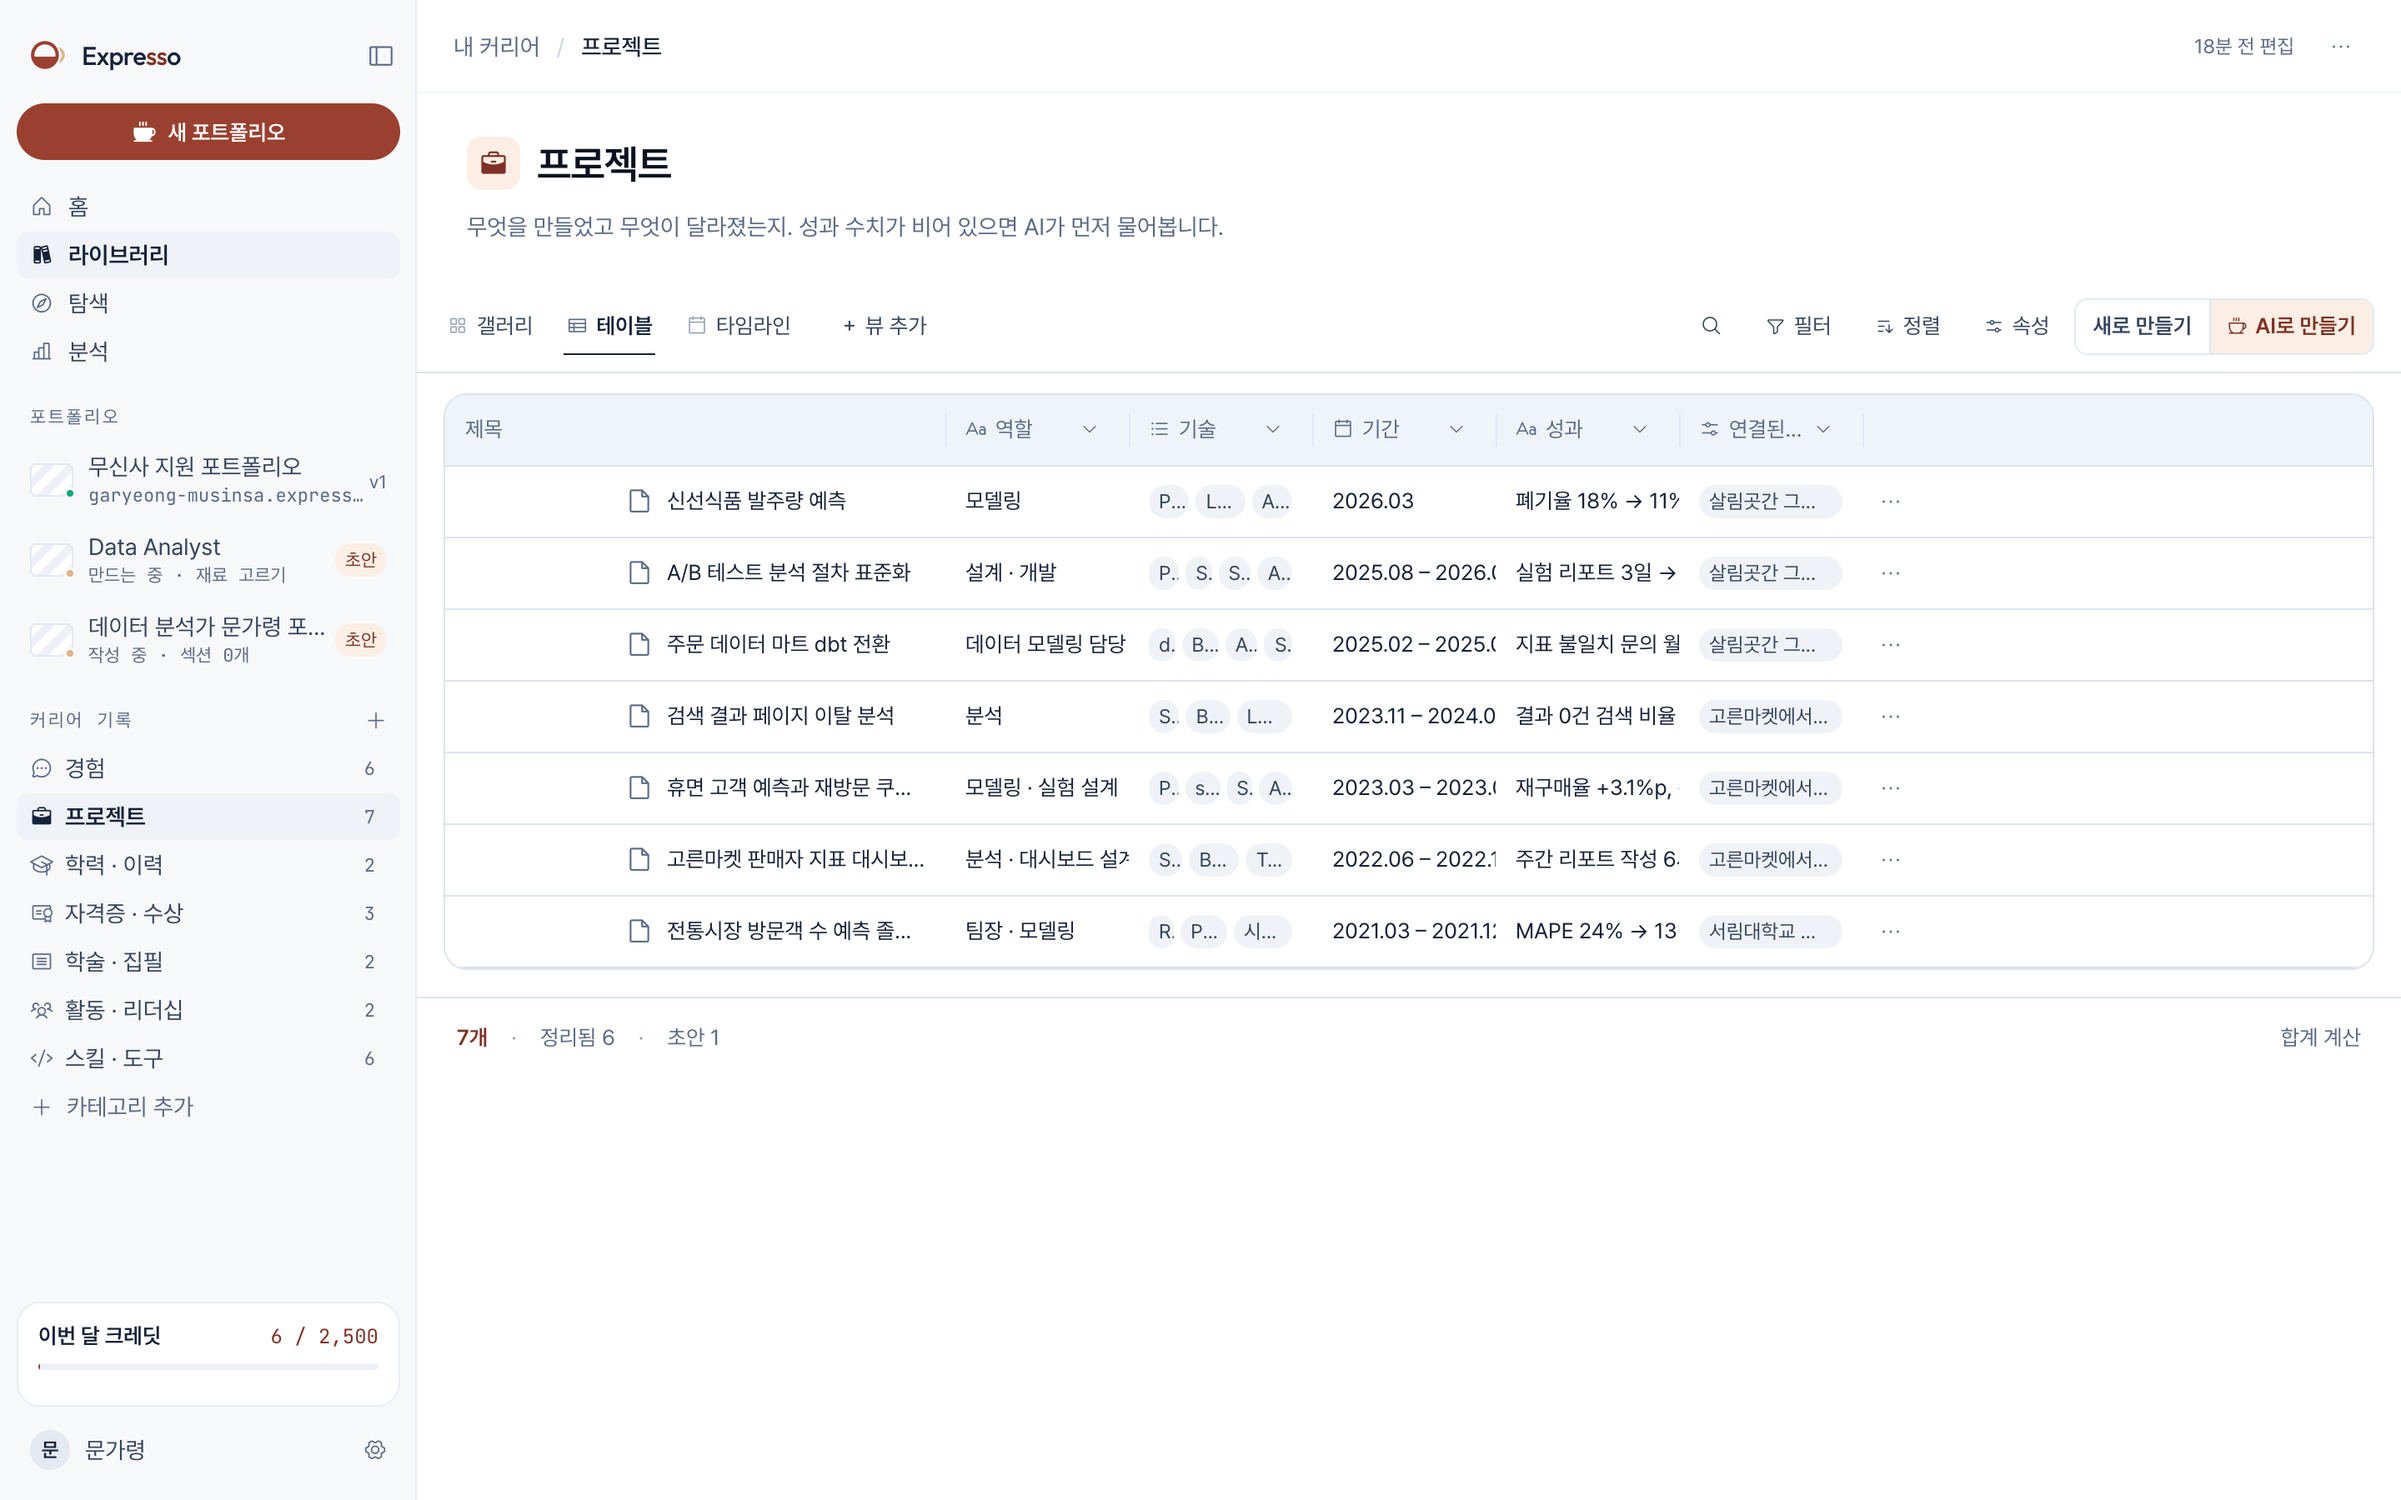
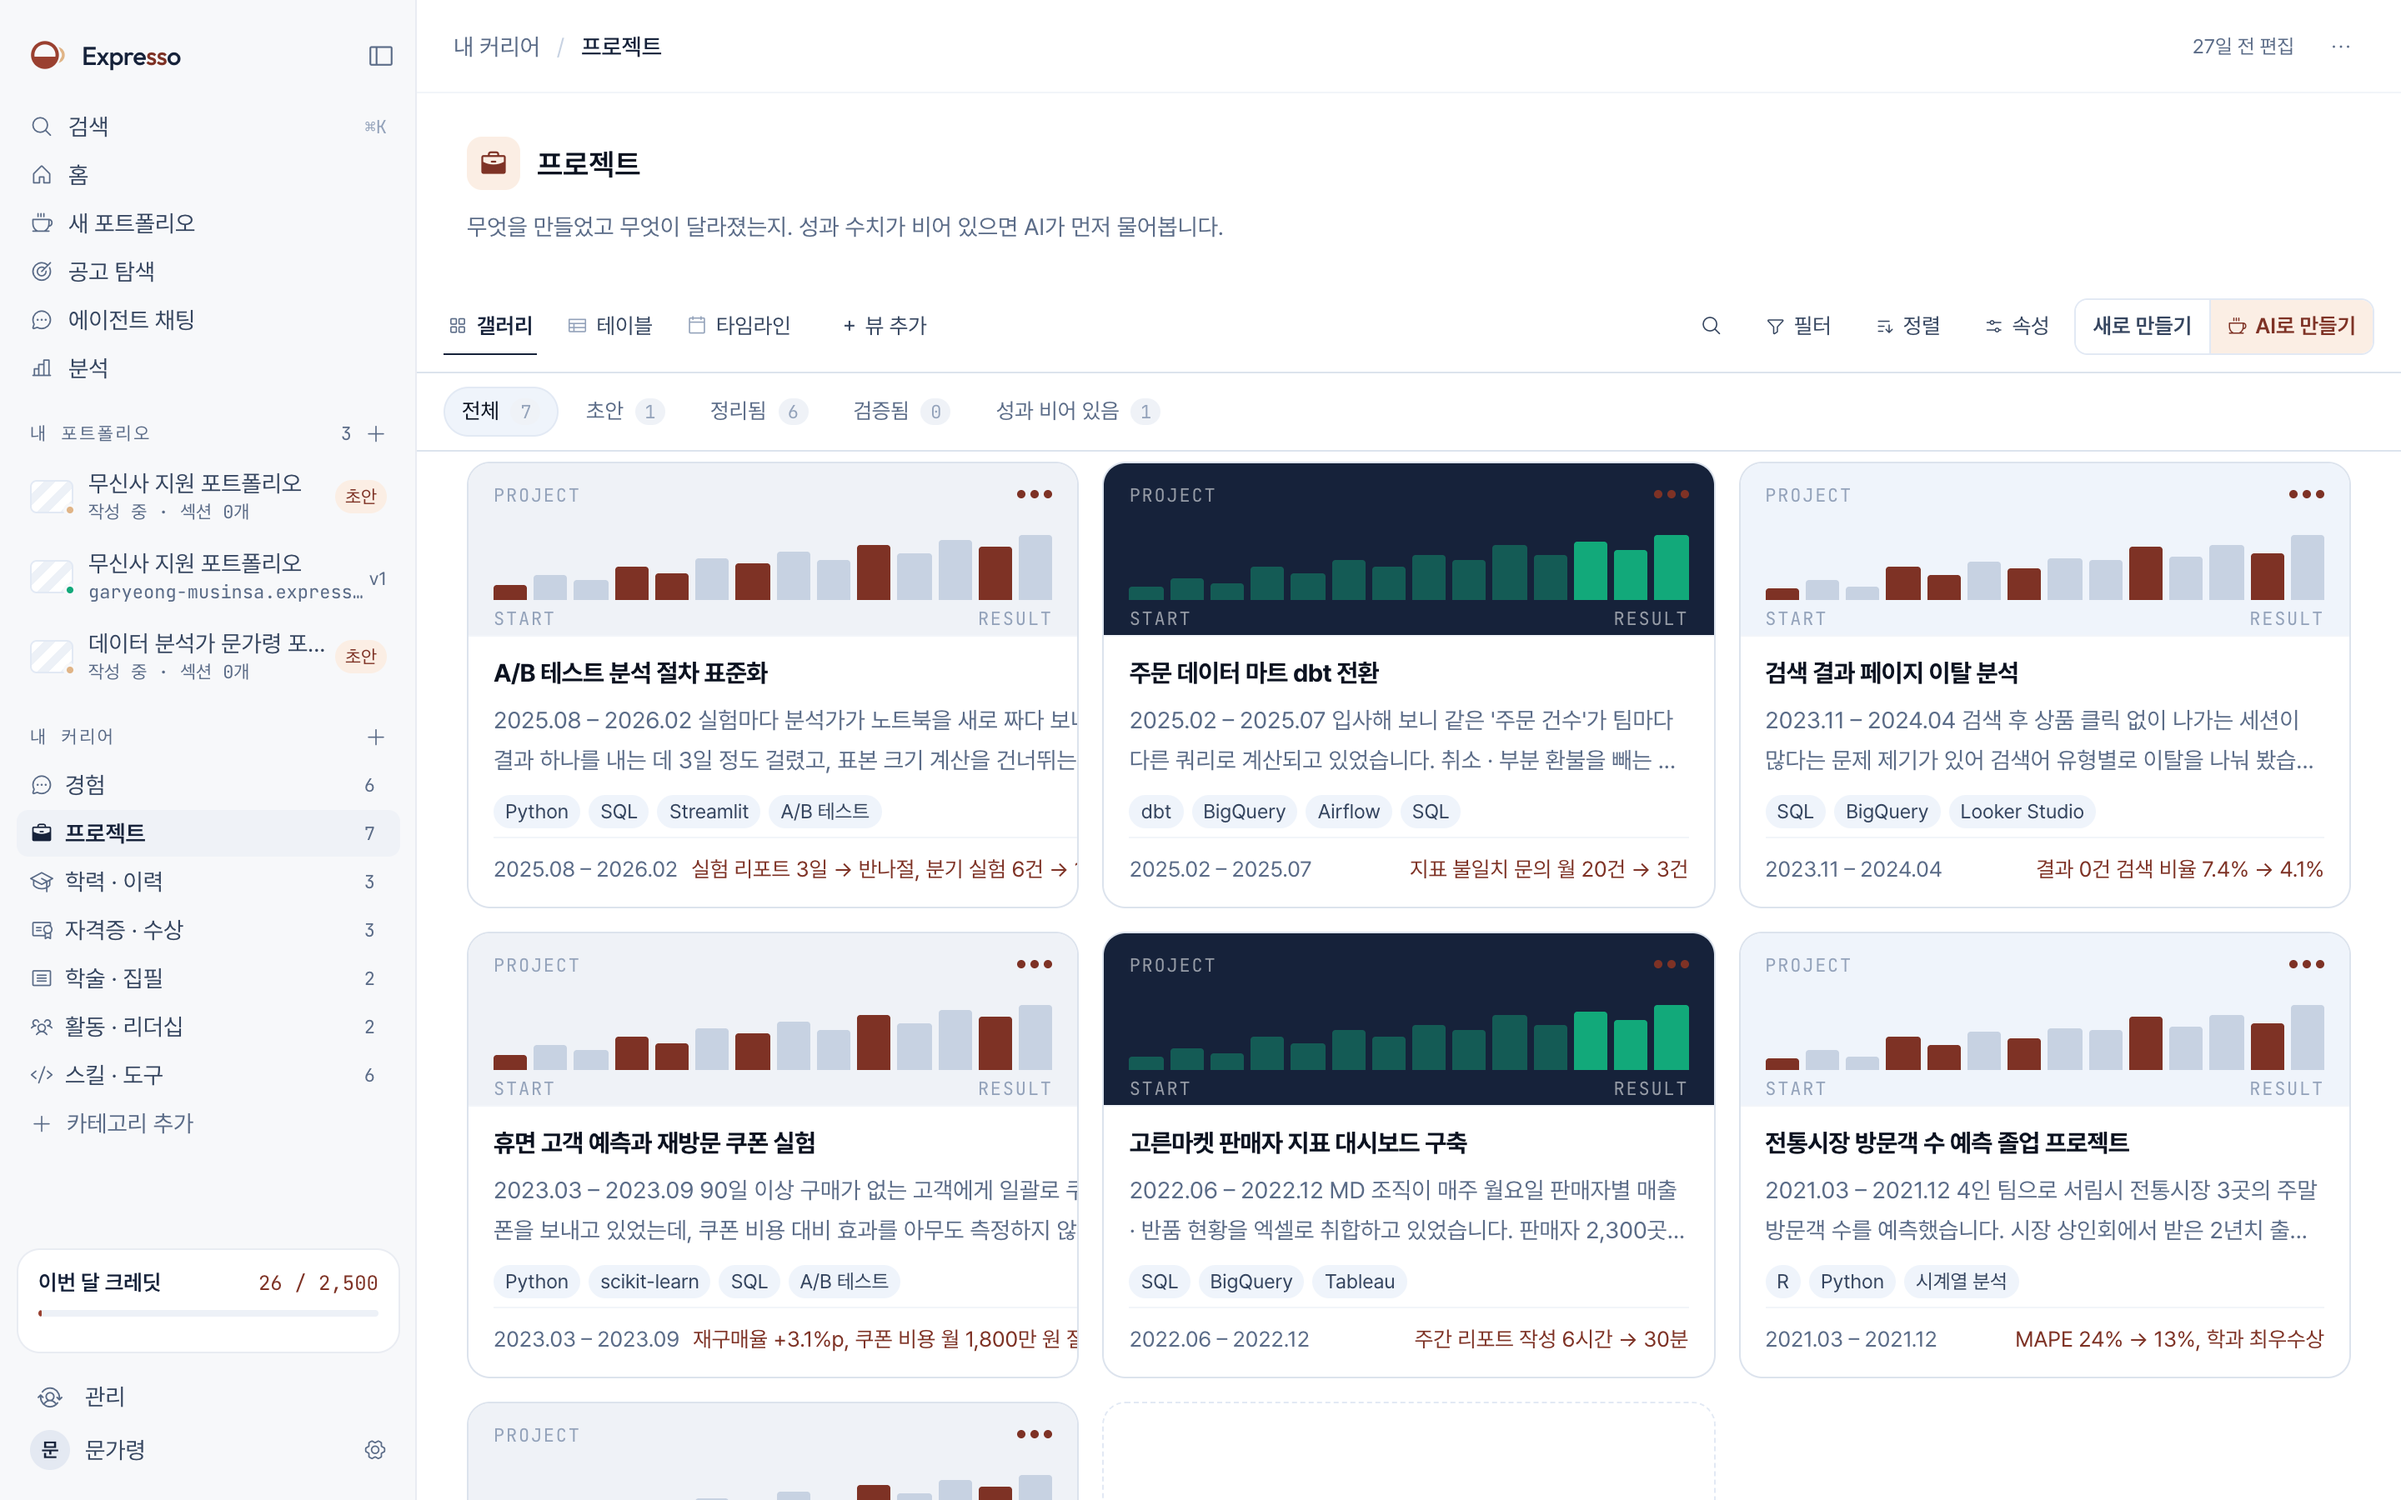
docs: 커리어 기록 장 화면을 경험 · 프로젝트 · 학력 · 이력 세 보기로 교체
- 경험(테이블) · 프로젝트(갤러리) · 학력 · 이력(타임라인) 실제 화면을 로컬 1.0 데모 계정에서 1440×900 · 2배로 촬영
- 촬영 전 데모 데이터 정리: 중복 경험 1건 삭제, 경험 3건 제목 · 기간 정리, 학력 기록 추가와 졸업 프로젝트 · 학부연구생 연결
- 오른쪽 보기 목록에 카테고리 표시 추가

diff --git a/docs/최종-발표-개정.html b/docs/최종-발표-개정.html
@@ -753,7 +753,9 @@ svg [data-morph] { transform-box: fill-box; }
 .fp-show .views button { display: flex; align-items: center; gap: 16px; width: 100%; padding: 14px 18px; border: 1px solid transparent; border-radius: 14px; background: transparent; text-align: left; font: inherit; cursor: pointer; transition: background 400ms ease, border-color 400ms ease; }
 .fp-show .views .ic { flex: none; width: 48px; height: 48px; border-radius: 12px; display: grid; place-items: center; font-size: 26px; color: var(--ex-slate-500); background: var(--ex-white); border: 1px solid var(--ex-line-200); transition: color 400ms ease, border-color 400ms ease; }
 .fp-show .views b { display: block; font-size: 26px; font-weight: 700; letter-spacing: -.02em; color: var(--ex-slate-500); transition: color 400ms ease; }
-.fp-show .views small { display: block; margin-top: 4px; font-size: 19px; color: var(--ex-slate-400); }
+.fp-show .views small { display: flex; align-items: center; gap: 10px; margin-top: 6px; font-size: 19px; color: var(--ex-slate-400); }
+.fp-show .views small em { font-style: normal; font-weight: 600; font-size: 17px; padding: 2px 10px; border-radius: 999px; color: var(--ex-slate-700); background: var(--ex-white); border: 1px solid var(--ex-line-200); }
+.fp-show .views button.on small em { color: var(--ex-espresso); border-color: rgba(154, 64, 48, .3); }
 .fp-show .views button.on { background: var(--ex-bean-50); border-color: rgba(154, 64, 48, .24); }
 .fp-show .views button.on .ic { color: var(--ex-espresso); border-color: rgba(154, 64, 48, .3); }
 .fp-show .views button.on b { color: var(--ex-ink-900); }
@@ -2142,7 +2144,7 @@ svg [data-morph] { transform-box: fill-box; }
     </div>
     <div class="body">
       <div class="fp-show">
-        <div class="shot in dl-3"><img src="assets/최종-발표/career-screen-1.png" alt="프로젝트 기록 갤러리 보기" width="1440" height="900" class="on"><img src="assets/최종-발표/career-screen-2.png" alt="프로젝트 기록 테이블 보기" width="1440" height="900"><img src="assets/최종-발표/career-screen-3.png" alt="프로젝트 기록 타임라인 보기" width="1440" height="900"></div>
+        <div class="shot in dl-3"><img src="assets/최종-발표/career-screen-1.png" alt="경험 기록 테이블 보기" width="1440" height="900" class="on"><img src="assets/최종-발표/career-screen-2.png" alt="프로젝트 기록 갤러리 보기" width="1440" height="900"><img src="assets/최종-발표/career-screen-3.png" alt="학력 · 이력 타임라인 보기" width="1440" height="900"></div>
         <div class="txt">
           <div class="in dl-4">
             <div class="k">기록 정리</div>
@@ -2152,9 +2154,9 @@ svg [data-morph] { transform-box: fill-box; }
           <div class="in dl-5">
             <div class="k">다양한 보기</div>
             <ol class="views">
-              <li><button type="button" data-shot="0" class="on"><span class="ic"><i class="ph ph-squares-four"></i></span><span><b>갤러리</b><small>대표 그림 · 성과 수치 카드</small></span></button></li>
-              <li><button type="button" data-shot="1"><span class="ic"><i class="ph ph-table"></i></span><span><b>테이블</b><small>역할 · 기술 · 기간 · 성과의 목록 정리</small></span></button></li>
-              <li><button type="button" data-shot="2"><span class="ic"><i class="ph ph-calendar-blank"></i></span><span><b>타임라인</b><small>기간순 커리어 흐름</small></span></button></li>
+              <li><button type="button" data-shot="0" class="on"><span class="ic"><i class="ph ph-table"></i></span><span><b>테이블</b><small><em>경험</em>역량 · 시기 한 줄 비교</small></span></button></li>
+              <li><button type="button" data-shot="1"><span class="ic"><i class="ph ph-squares-four"></i></span><span><b>갤러리</b><small><em>프로젝트</em>역할 · 기술 · 성과 카드</small></span></button></li>
+              <li><button type="button" data-shot="2"><span class="ic"><i class="ph ph-calendar-blank"></i></span><span><b>타임라인</b><small><em>학력 · 이력</em>학교 · 회사의 시간순 흐름</small></span></button></li>
             </ol>
           </div>
         </div>
